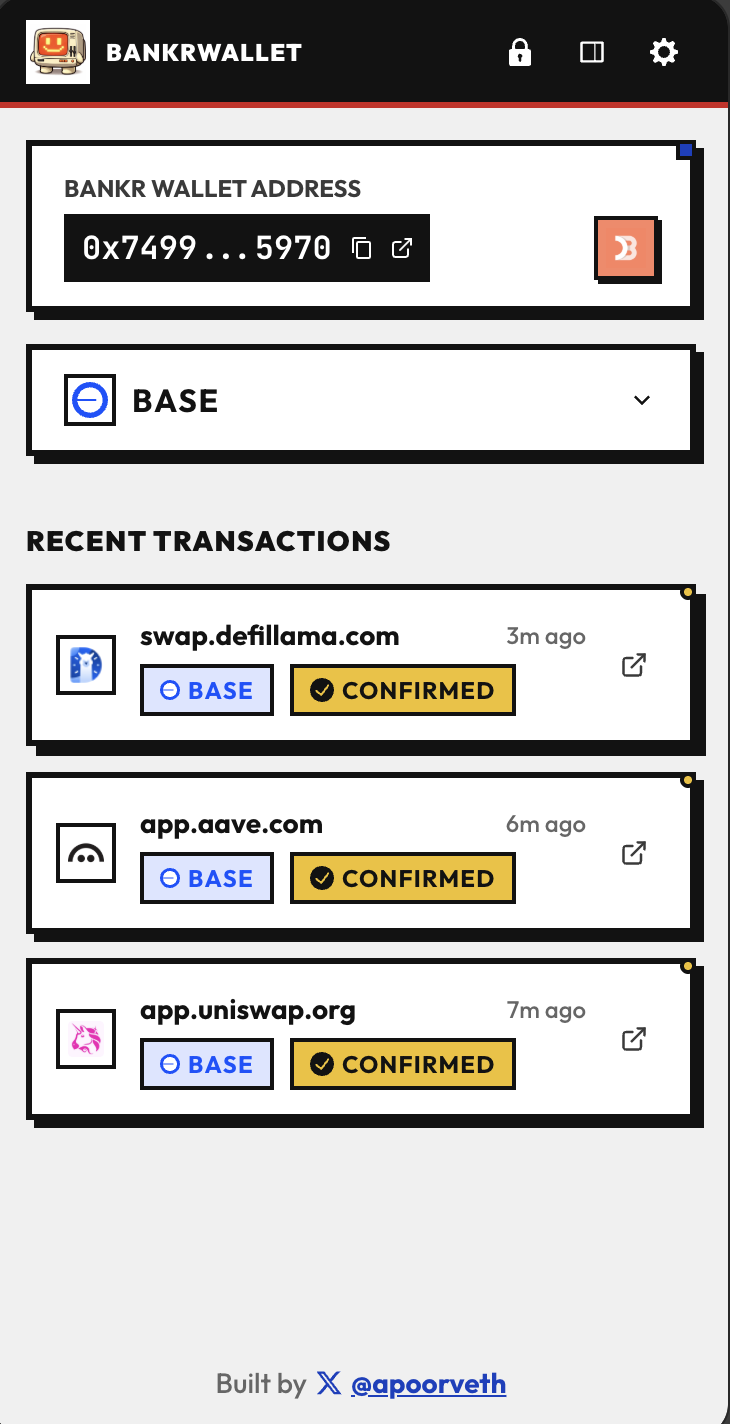
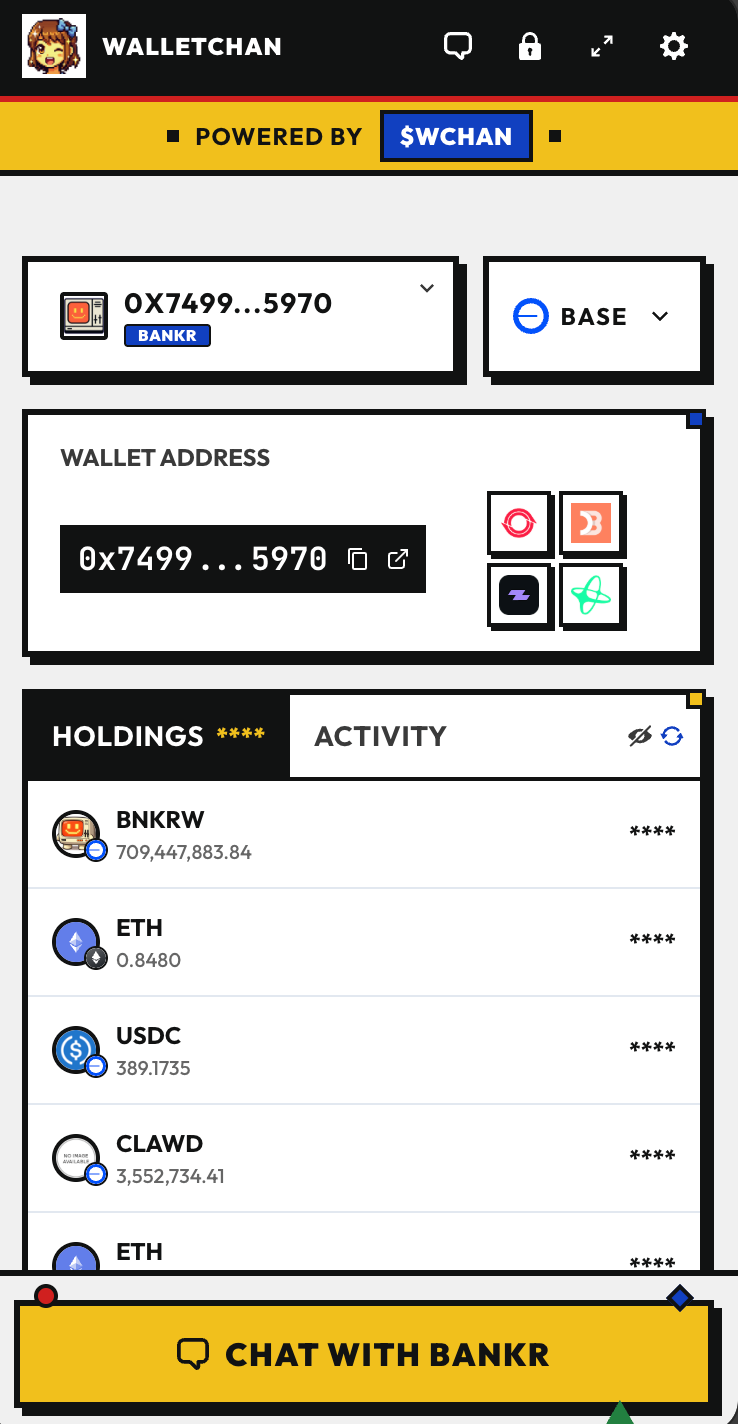
update screenshots, readme

diff --git a/apps/website/app/constants.ts b/apps/website/app/constants.ts
@@ -23,7 +23,9 @@ export const BUY_LINK =
   "https://app.uniswap.org/swap?chain=base&inputCurrency=NATIVE&outputCurrency=0xBa5ED0000e1CA9136a695f0a848012A16008B032";
 export const DEXSCREENER_URL = `https://dexscreener.com/base/${POOL_ADDRESS}`;
 export const GECKOTERMINAL_URL = `https://www.geckoterminal.com/base/pools/${POOL_ADDRESS}`;
-export const GECKOTERMINAL_EMBED_URL = `https://www.geckoterminal.com/base/pools/${POOL_ADDRESS}?embed=1&info=0&swaps=0&grayscale=0&light_chart=0&chart_type=market_cap&resolution=1d`;
+// FIXME: uncomment this to use 1d chart
+// export const GECKOTERMINAL_EMBED_URL = `https://www.geckoterminal.com/base/pools/${POOL_ADDRESS}?embed=1&info=0&swaps=0&grayscale=0&light_chart=0&chart_type=market_cap&resolution=1d`;
+export const GECKOTERMINAL_EMBED_URL = `https://www.geckoterminal.com/base/pools/${POOL_ADDRESS}?embed=1&info=0&swaps=0&grayscale=0&light_chart=0&chart_type=market_cap&resolution=30s`;
 export const GECKOTERMINAL_EMBED_URL_30s = `https://www.geckoterminal.com/base/pools/${POOL_ADDRESS}?embed=1&info=0&swaps=0&grayscale=0&light_chart=0&chart_type=market_cap&resolution=30s`;
 export const GECKOTERMINAL_API_URL = `https://api.geckoterminal.com/api/v2/networks/base/pools/${POOL_ADDRESS}`;
 // FIXME: update to WCHAN coingecko URL once the new coin is live there

diff --git a/apps/website/app/components/StatsBar.tsx b/apps/website/app/components/StatsBar.tsx
@@ -110,7 +110,7 @@ export function StatsBar() {
           />
 
           <StatItem
-            value="1000+"
+            value="4000+"
             label="Token Holders"
             shape="square"
             color="blue"

diff --git a/README.md b/README.md
@@ -1,26 +1,26 @@
-# BankrWallet
+# WalletChan
 
 <p align="center">
-  <img src="./.github/bankr-wallet-heading.png" alt="BankrWallet" />
+  <img src="./.github/walletchan-header.png" alt="WalletChan" />
 </p>
 
 <p align="center">
-  <b>Pull your BankrWallet out of the Terminal and into your browser to use with Any Dapp, just like Metamask!</b>
+  <b>The Wallet for AI Era. Use your Bankr Address across all the dapps, just like Metamask!</b>
 </p>
 
 <p align="center">
-  <a href="https://bankrwallet.app/">https://bankrwallet.app/</a>
+  <a href="https://walletchan.com/">https://walletchan.com/</a>
 </p>
 
 <table>
   <tr>
-    <td><img src="./.github/usage/password-page.png" alt="Password Page" /></td>
-    <td><img src="./.github/usage/homepage-new.png" alt="Homepage" /></td>
-    <td><img src="./.github/usage/settings.png" alt="Settings Page" /></td>
+    <td><img src="./apps/website/public/screenshots/password-page.png" alt="Password Page" /></td>
+    <td><img src="./apps/website/public/screenshots/homepage-new.png" alt="Homepage" /></td>
+    <td><img src="./apps/website/public/screenshots/settings.png" alt="Settings Page" /></td>
   </tr>
 </table>
 
-<img src="./.github/usage/tx-request.png" alt="Transaction Request" />
+<img src="./apps/website/public/screenshots/tx-request.png" alt="Transaction Request" />
 
 ## Features
 
@@ -38,7 +38,7 @@
 ### Download
 
 1. Go to the [latest release](https://github.com/apoorvlathey/walletchan/releases/latest) on GitHub
-2. Download the `bankr-wallet-vX.Y.Z.zip` file from the release assets (e.g., `bankr-wallet-v0.1.0.zip`)
+2. Download the `walletchan-vX.Y.Z.zip` file from the release assets (e.g., `walletchan-v1.4.0.zip`)
 3. Extract the zip file to a folder on your computer
 
 ### Chrome / Brave / Arc
@@ -53,7 +53,7 @@
 ## Getting Started
 
 1. Install the extension
-2. Click the Bankr Wallet icon to open the onboarding wizard
+2. Click the WalletChan icon to open the onboarding wizard
 3. Enter your Bankr API key (get one from [bankr.bot](https://bankr.bot/api))
 4. Enter your wallet address corresponding to the API key (supports ENS)
 5. Create a password to secure your API key
